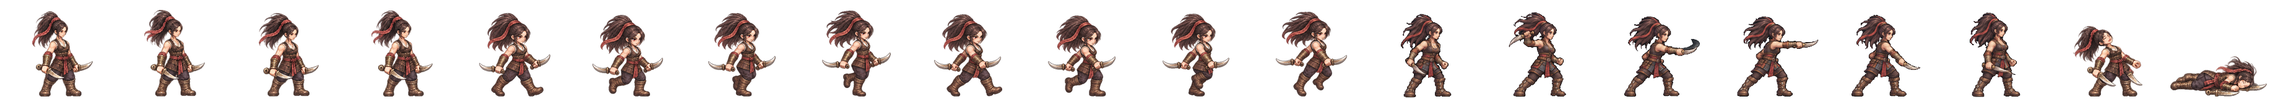
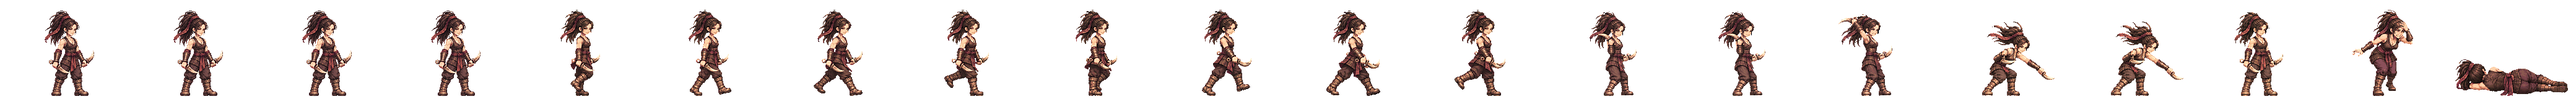
살해 달래 전투 띠를 새 방식으로: 서기·걷기·굽은 단검 둘 내려베기 여덟 칸·개성 동작·쓰러짐·맞음 (Codex 그림 · 독립 검수 · 걷기 다리 교대는 3/4열 부호 반대로 완전히는 안 읽힘 · 내려베기 a 칸4 얼굴은 부분 편집 판에서 얼굴만 합침)
Claude-Session: https://claude.ai/code/session_01TRiuN7s6aDfSnaHxrkctmU

Changed region(s): [[0.0, 0.0938, 1.0, 0.9688]]

diff --git a/src/realm/data/spritePx.ts b/src/realm/data/spritePx.ts
@@ -1,3 +1,3 @@
 /** public/realm/anim-px/manifest.json 의 사본 — tools/sprite-normalize.mjs 가 만든다 (손으로 고치지 말 것). 칸 [가로, 세로] · feet = 발 줄(칸 위에서 y) · bodyPx = 서 있는 몸 키 */
 import { expandManifest } from './sprite-manifest.ts'
-export const SPRITE_PX: Readonly<Record<string, { readonly cell: readonly [number, number]; readonly feet: number; readonly bodyPx: number; readonly kind: 'general' | 'soldier' | 'folk' | 'crowd'; readonly cells: number }>> = expandManifest<{ readonly cell: readonly [number, number]; readonly feet: number; readonly bodyPx: number; readonly kind: 'general' | 'soldier' | 'folk' | 'crowd'; readonly cells: number }>([{"cell":[166,128],"feet":126,"bodyPx":124,"kind":"soldier","cells":20},{"cell":[116,128],"feet":126,"bodyPx":117,"kind":"soldier","cells":20},{"cell":[127,128],"feet":126,"bodyPx":116,"kind":"soldier","cells":20},{"cell":[269,128],"feet":126,"bodyPx":126,"kind":"soldier","cells":20},{"cell":[503,128],"feet":126,"bodyPx":127,"kind":"soldier","cells":20},{"cell":[614,128],"feet":126,"bodyPx":126,"kind":"soldier","cells":20},{"cell":[200,160],"feet":156,"bodyPx":138,"kind":"general","cells":20},{"cell":[208,160],"feet":155,"bodyPx":138,"kind":"general","cells":20},{"cell":[208,160],"feet":154,"bodyPx":138,"kind":"general","cells":20},{"cell":[304,160],"feet":155,"bodyPx":135,"kind":"general","cells":20},{"cell":[184,160],"feet":156,"bodyPx":138,"kind":"general","cells":20},{"cell":[208,160],"feet":154,"bodyPx":136,"kind":"general","cells":20},{"cell":[232,160],"feet":156,"bodyPx":138,"kind":"general","cells":20},{"cell":[208,160],"feet":156,"bodyPx":138,"kind":"general","cells":20},{"cell":[168,160],"feet":156,"bodyPx":124,"kind":"general","cells":20},{"cell":[216,160],"feet":156,"bodyPx":130,"kind":"general","cells":20},{"cell":[200,160],"feet":156,"bodyPx":116,"kind":"general","cells":20},{"cell":[192,160],"feet":156,"bodyPx":138,"kind":"general","cells":20},{"cell":[208,160],"feet":154,"bodyPx":135,"kind":"general","cells":20},{"cell":[280,160],"feet":156,"bodyPx":138,"kind":"general","cells":20},{"cell":[232,160],"feet":156,"bodyPx":134,"kind":"general","cells":20},{"cell":[144,160],"feet":156,"bodyPx":70,"kind":"general","cells":20},{"cell":[208,160],"feet":156,"bodyPx":70,"kind":"general","cells":20},{"cell":[192,160],"feet":156,"bodyPx":70,"kind":"general","cells":20},{"cell":[240,160],"feet":155,"bodyPx":138,"kind":"general","cells":20},{"cell":[192,160],"feet":156,"bodyPx":128,"kind":"general","cells":20},{"cell":[208,160],"feet":154,"bodyPx":137,"kind":"general","cells":20},{"cell":[216,160],"feet":156,"bodyPx":138,"kind":"general","cells":20},{"cell":[208,160],"feet":156,"bodyPx":134,"kind":"general","cells":20},{"cell":[208,160],"feet":154,"bodyPx":130,"kind":"general","cells":20},{"cell":[248,160],"feet":156,"bodyPx":138,"kind":"general","cells":20},{"cell":[248,160],"feet":155,"bodyPx":138,"kind":"general","cells":20},{"cell":[192,160],"feet":155,"bodyPx":138,"kind":"general","cells":20},{"cell":[192,160],"feet":156,"bodyPx":124,"kind":"general","cells":20},{"cell":[208,160],"feet":154,"bodyPx":131,"kind":"general","cells":20},{"cell":[240,160],"feet":156,"bodyPx":138,"kind":"general","cells":20},{"cell":[232,160],"feet":156,"bodyPx":73,"kind":"general","cells":20},{"cell":[224,160],"feet":156,"bodyPx":138,"kind":"general","cells":20},{"cell":[224,160],"feet":156,"bodyPx":128,"kind":"general","cells":20},{"cell":[176,160],"feet":156,"bodyPx":129,"kind":"general","cells":20},{"cell":[208,160],"feet":154,"bodyPx":139,"kind":"general","cells":20},{"cell":[232,160],"feet":155,"bodyPx":138,"kind":"general","cells":20},{"cell":[208,160],"feet":156,"bodyPx":132,"kind":"general","cells":20},{"cell":[184,160],"feet":156,"bodyPx":122,"kind":"general","cells":20},{"cell":[280,160],"feet":155,"bodyPx":133,"kind":"general","cells":20},{"cell":[176,160],"feet":156,"bodyPx":70,"kind":"general","cells":20},{"cell":[186,128],"feet":126,"bodyPx":127,"kind":"soldier","cells":20},{"cell":[298,128],"feet":126,"bodyPx":126,"kind":"soldier","cells":20},{"cell":[82,128],"feet":126,"bodyPx":114,"kind":"folk","cells":8},{"cell":[134,128],"feet":126,"bodyPx":119,"kind":"soldier","cells":20},{"cell":[380,128],"feet":126,"bodyPx":124,"kind":"soldier","cells":20},{"cell":[114,128],"feet":126,"bodyPx":115,"kind":"soldier","cells":20},{"cell":[122,128],"feet":126,"bodyPx":114,"kind":"soldier","cells":20},{"cell":[254,128],"feet":126,"bodyPx":128,"kind":"soldier","cells":20},{"cell":[438,128],"feet":126,"bodyPx":126,"kind":"soldier","cells":20},{"cell":[88,128],"feet":126,"bodyPx":113,"kind":"folk","cells":8},{"cell":[100,128],"feet":126,"bodyPx":115,"kind":"folk","cells":8},{"cell":[108,128],"feet":126,"bodyPx":115,"kind":"folk","cells":8},{"cell":[63,128],"feet":126,"bodyPx":113,"kind":"folk","cells":8},{"cell":[69,96],"feet":96,"bodyPx":96,"kind":"crowd","cells":1},{"cell":[54,96],"feet":96,"bodyPx":96,"kind":"crowd","cells":1},{"cell":[47,96],"feet":96,"bodyPx":96,"kind":"crowd","cells":1},{"cell":[49,96],"feet":96,"bodyPx":96,"kind":"crowd","cells":1},{"cell":[57,96],"feet":96,"bodyPx":96,"kind":"crowd","cells":1},{"cell":[55,96],"feet":96,"bodyPx":96,"kind":"crowd","cells":1},{"cell":[45,96],"feet":96,"bodyPx":96,"kind":"crowd","cells":1},{"cell":[53,96],"feet":96,"bodyPx":96,"kind":"crowd","cells":1},{"cell":[64,96],"feet":96,"bodyPx":96,"kind":"crowd","cells":1},{"cell":[264,160],"feet":156,"bodyPx":138,"kind":"general","cells":20},{"cell":[184,160],"feet":156,"bodyPx":124,"kind":"general","cells":20},{"cell":[256,160],"feet":156,"bodyPx":138,"kind":"general","cells":20},{"cell":[208,160],"feet":154,"bodyPx":134,"kind":"general","cells":20},{"cell":[224,160],"feet":156,"bodyPx":133,"kind":"general","cells":20},{"cell":[184,160],"feet":156,"bodyPx":137,"kind":"general","cells":20},{"cell":[176,160],"feet":156,"bodyPx":130,"kind":"general","cells":20},{"cell":[216,160],"feet":156,"bodyPx":134,"kind":"general","cells":20},{"cell":[216,160],"feet":156,"bodyPx":132,"kind":"general","cells":20},{"cell":[288,160],"feet":156,"bodyPx":138,"kind":"general","cells":20},{"cell":[192,160],"feet":156,"bodyPx":118,"kind":"general","cells":20},{"cell":[208,160],"feet":154,"bodyPx":132,"kind":"general","cells":20},{"cell":[208,160],"feet":154,"bodyPx":128,"kind":"general","cells":20},{"cell":[240,160],"feet":156,"bodyPx":128,"kind":"general","cells":20},{"cell":[184,160],"feet":156,"bodyPx":132,"kind":"general","cells":20},{"cell":[208,160],"feet":156,"bodyPx":123,"kind":"general","cells":20},{"cell":[192,160],"feet":156,"bodyPx":135,"kind":"general","cells":20},{"cell":[176,160],"feet":156,"bodyPx":116,"kind":"general","cells":20},{"cell":[272,160],"feet":156,"bodyPx":138,"kind":"general","cells":20},{"cell":[176,160],"feet":156,"bodyPx":138,"kind":"general","cells":20},{"cell":[176,160],"feet":156,"bodyPx":122,"kind":"general","cells":20},{"cell":[232,160],"feet":156,"bodyPx":127,"kind":"general","cells":20},{"cell":[184,160],"feet":156,"bodyPx":134,"kind":"general","cells":20},{"cell":[168,160],"feet":156,"bodyPx":138,"kind":"general","cells":20},{"cell":[176,160],"feet":156,"bodyPx":137,"kind":"general","cells":20},{"cell":[184,160],"feet":156,"bodyPx":133,"kind":"general","cells":20}],[["axe",0],["bandit-chief",1],["bandit-club",2],["boat",3],["bow",4],["crossbow",5],["gen-adogan",6],["gen-alpyeong",7],["gen-ara",8],["gen-areum",8],["gen-aryeong",9],["gen-bakdal",8],["gen-baram",8],["gen-bdanbi",10],["gen-beom",11],["gen-beombal",8],["gen-beomi",8],["gen-bira",12],["gen-biryu",13],["gen-budeul",8],["gen-byeol",8],["gen-daemusin",14],["gen-daeso",15],["gen-dallae2",10],["gen-dalli",8],["gen-damul",16],["gen-danbi",8],["gen-dangung",17],["gen-darae",18],["gen-dokmudeom",8],["gen-duman",19],["gen-eomni",8],["gen-eureum",20],["gen-g-bow",21],["gen-g-spear",22],["gen-g-sword",23],["gen-gaennae",8],["gen-gamsil",24],["gen-gaon",18],["gen-geota",13],["gen-geumbawi",10],["gen-geumha",25],["gen-goeun",8],["gen-gom",8],["gen-gomok",13],["gen-gureum",8],["gen-guryema",17],["gen-gwaeyu",12],["gen-haebi",8],["gen-haedal",6],["gen-haesol",8],["gen-halla",26],["gen-heo",8],["gen-hneoul",10],["gen-hogong",27],["gen-hojin",13],["gen-horselord",28],["gen-hwalmi",29],["gen-hyeokgeose",17],["gen-hyeopbo",6],["gen-irang",8],["gen-jibaekho",30],["gen-jinha",31],["gen-jita",32],["gen-jumong",33],["gen-keundol",7],["gen-maehwa",34],["gen-maenun",17],["gen-malgalgi",8],["gen-mari",35],["gen-maro",30],["gen-maryeo",13],["gen-mdallae",8],["gen-mir",6],["gen-mount",36],["gen-mulbeom",26],["gen-mulsae",26],["gen-musoe",27],["gen-noeul",8],["gen-nuri",8],["gen-ocheongan",37],["gen-odi",8],["gen-odogan",6],["gen-ogan",17],["gen-oi",38],["gen-olddaeso",20],["gen-onjo",39],["gen-pidogan",13],["gen-sagong",40],["gen-sdallae",6],["gen-sincheongan",8],["gen-singwigan",27],["gen-sinneoul",8],["gen-sobeol",41],["gen-soebi",8],["gen-soebo",42],["gen-soenun",40],["gen-sogeumbi",26],["gen-songbi",8],["gen-songyang",43],["gen-sori",8],["gen-soseono",44],["gen-suro",17],["gen-tahae",6],["gen-tneoul",8],["gen-w-bow",21],["gen-w-spear",45],["gen-waechief",13],["gen-wan",27],["gen-yeodogan",13],["gen-yucheongan",8],["gen-yusugan",30],["horse",46],["marine",47],["migrant",48],["militia",49],["pike",50],["pirate-captain",51],["pirate-sword",52],["shield",53],["spear",54],["villager-builder",55],["villager-farmer",56],["villager-porter",57],["villager-woman",58],["crowd-b1",59],["crowd-b2",60],["crowd-b3",61],["crowd-b4",62],["crowd-b5",63],["crowd-b6",64],["crowd-f1",59],["crowd-f2",64],["crowd-f3",65],["crowd-f4",66],["crowd-f5",59],["crowd-f6",67],["gen-dalbit",13],["gen-base-g-07-drunk-warrior",17],["gen-base-g-40-anya-adan",13],["gen-base-w-13-young-archer",8],["gen-base-g-03-sea-trader",35],["gen-base-w-10-pirate-captain",40],["gen-base-w-64-miri-dallae",40],["gen-base-g-41-goja-bau",35],["gen-base-g-42-dokro-garam",68],["gen-base-g-09-farmer-conscript",27],["gen-base-w-02-goguryeo-lady",8],["gen-base-w-17-mahan-pearl-diver",8],["gen-base-g-17-saro-isageum",42],["gen-base-g-18-daegaya-king",69],["gen-base-g-35-dabeol-dalgu",13],["gen-base-g-19-sabeol-veteran",27],["gen-base-w-23-usisan-whale-queen",8],["gen-base-g-36-gammun-gamdol",37],["gen-base-g-20-samul-sea-lord",70],["gen-base-g-37-eumjeup-jeup",10],["gen-base-g-38-chopal-palmae",17],["gen-base-w-75-daegaya-soemoe",8],["gen-base-g-45-dabeol-deulgae",10],["gen-base-g-04-jinhan-giant",13],["gen-base-g-08-veteran",13],["gen-base-w-18-jinhan-salt-widow",8],["gen-base-w-12-court-dancer",71],["gen-base-w-83-gyeonji-beodeul",72],["gen-base-w-05-baekje-queen",18],["gen-base-w-21-baekje-court-dancer",10],["gen-base-g-01-master-smith",73],["gen-base-g-93-jomun-solgae",74],["gen-base-g-57-bihwa-neup",35],["gen-base-w-72-eumjeup-beol",8],["gen-base-w-102-garak-dana",40],["gen-base-g-68-baekje-onnuri",13],["gen-base-w-27-mokji-jinha",6],["gen-base-g-22-ungcheon-gomnae",6],["gen-base-g-23-sangdang-soedal",13],["gen-base-g-24-wansan-onsan",6],["gen-base-g-25-balla-keunmoe",27],["gen-base-g-61-heomcheuk-bawi",27],["gen-base-g-88-wander-soeul",37],["gen-base-w-14-feast-spy",8],["gen-base-g-12-silla-youth",75],["gen-base-w-08-mahan-warrior",8],["gen-base-g-62-beonye-hanul",35],["gen-base-g-63-heomcheuk-beogeum",13],["gen-base-g-84-wander-seoneul",13],["gen-base-w-50-siljik-mulga",27],["gen-base-g-46-uga-nureongso",27],["gen-base-w-80-usan-gangchi",40],["gen-base-g-47-guga-sanyanggae",27],["gen-base-w-76-gampyeong-baetsagong",8],["gen-base-g-05-mahan-chieftain",76],["gen-base-g-58-usan-uhae",13],["gen-base-g-27-maek-maekdol",13],["gen-base-w-53-hwanna-gabi",40],["gen-base-w-29-golpo-janmul",30],["gen-base-g-53-baekje-haeru",6],["gen-base-w-71-yeonna-neoul",8],["gen-base-w-79-yangmaek-solmae",8],["gen-base-w-34-chopal-deulme",8],["gen-base-g-44-maga-malgup",77],["gen-base-w-31-dabeol-dalbit",40],["gen-base-g-51-biryuna-mulgyeol",37],["gen-base-g-48-gwanna-musoe",13],["gen-base-g-32-uga-sodu",12],["gen-base-g-49-goguryeo-sona",78],["gen-base-g-30-gwanna-soemoe",37],["gen-base-g-52-tamna-oreum",10],["gen-base-g-29-yeonna-myeongsol",33],["gen-base-w-56-dongokjeo-sogeum",71],["gen-base-g-54-mokji-mahan",12],["gen-base-g-33-jeoga-metdol",17],["gen-base-w-36-baekje-maena",8],["gen-base-w-38-sangdang-bulmae",40],["gen-base-w-39-gosaburi-galmae",8],["gen-base-w-40-mujin-munui",79],["gen-base-w-41-hwanna-beodeul",80],["gen-base-w-43-uga-nuri",70],["gen-base-w-45-tamna-oreumbi",10],["gen-base-g-60-golbeol-golgae",10],["gen-base-g-61-apdok-ap",27],["gen-base-g-62-gammun-gamnamu",6],["gen-base-g-63-chopal-yeoul",30],["gen-base-g-64-michuhol-sogeumkkun",35],["gen-base-g-65-sangdang-soemangchi",37],["gen-base-g-66-geonma-malbalgup",81],["gen-base-g-67-gosaburi-buri",82],["gen-base-g-68-mujin-bitgoeul",10],["gen-base-g-69-goryong-yong",37],["gen-base-g-70-siljik-pado",35],["gen-base-w-81-byeokjin-byeolbit",8],["gen-base-w-46-geonma-maru",8],["gen-base-w-48-mujin-mudeung",8],["gen-base-g-26-gampyeong-gaetbeol",12],["gen-base-g-60-eupcha-hangyeol",83],["gen-base-g-15-shaman-man",27],["gen-base-g-85-wander-ure",30],["gen-base-g-43-hwanna-amnok",13],["gen-base-g-50-bullae-gwaha",84],["gen-base-g-55-saro-bakdal",13],["gen-base-g-56-haseulla-gwahama",6],["gen-base-w-06-buyeo-huntress",26],["gen-base-w-22-dongye-tiger-huntress",8],["gen-base-w-25-bihwa-priestess",8],["gen-base-w-24-apdok-queen",8],["gen-base-w-61-iseo-sinae",8],["gen-base-w-26-iseo-tomboy-general",8],["gen-base-g-59-yangmaek-maekson",85],["gen-aw1-haebi",37],["gen-aw1-soseono",86],["gen-aw1-gamsil",10],["gen-aw1-mir",87],["gen-aw1-dangung",6],["gen-aw1-ara",37],["gen-aw1-jumong",88],["gen-aw1-onjo",89],["gen-aw1-base-w-83-gyeonji-beodeul",17],["gen-aw1-heo",68],["gen-aw1-base-g-38-chopal-palmae",6],["gen-aw1-base-w-25-bihwa-priestess",90],["gen-aw1-sori",91],["gen-aw1-gomok",6],["gen-aw1-irang",17],["gen-aw1-budeul",91],["gen-aw1-gom",35],["gen-aw1-sdallae",6],["gen-aw1-base-w-13-young-archer",6],["gen-aw1-base-w-36-baekje-maena",92],["gen-aw1-base-g-09-farmer-conscript",68],["gen-aw1-base-w-02-goguryeo-lady",93],["gen-aw1-haedal",10],["gen-aw1-hogong",6],["gen-aw1-maehwa",87],["gen-aw1-base-w-06-buyeo-huntress",12],["gen-aw1-base-w-08-mahan-warrior",37],["gen-aw1-base-w-29-golpo-janmul",37],["gen-aw1-base-w-31-dabeol-dalbit",17],["gen-aw1-base-w-38-sangdang-bulmae",91],["gen-aw1-bira",27],["gen-aw1-base-w-53-hwanna-gabi",91],["gen-aw1-base-w-56-dongokjeo-sogeum",87],["gen-aw1-base-w-72-eumjeup-beol",17],["gen-aw1-bdanbi",91],["gen-aw1-beom",10],["gen-aw1-beombal",10],["gen-aw1-byeol",17],["gen-aw1-dalli",87],["gen-aw1-malgalgi",30],["gen-aw1-sincheongan",27]])
+export const SPRITE_PX: Readonly<Record<string, { readonly cell: readonly [number, number]; readonly feet: number; readonly bodyPx: number; readonly kind: 'general' | 'soldier' | 'folk' | 'crowd'; readonly cells: number }>> = expandManifest<{ readonly cell: readonly [number, number]; readonly feet: number; readonly bodyPx: number; readonly kind: 'general' | 'soldier' | 'folk' | 'crowd'; readonly cells: number }>([{"cell":[166,128],"feet":126,"bodyPx":124,"kind":"soldier","cells":20},{"cell":[116,128],"feet":126,"bodyPx":117,"kind":"soldier","cells":20},{"cell":[127,128],"feet":126,"bodyPx":116,"kind":"soldier","cells":20},{"cell":[269,128],"feet":126,"bodyPx":126,"kind":"soldier","cells":20},{"cell":[503,128],"feet":126,"bodyPx":127,"kind":"soldier","cells":20},{"cell":[614,128],"feet":126,"bodyPx":126,"kind":"soldier","cells":20},{"cell":[200,160],"feet":156,"bodyPx":138,"kind":"general","cells":20},{"cell":[208,160],"feet":155,"bodyPx":138,"kind":"general","cells":20},{"cell":[208,160],"feet":154,"bodyPx":138,"kind":"general","cells":20},{"cell":[304,160],"feet":155,"bodyPx":135,"kind":"general","cells":20},{"cell":[184,160],"feet":156,"bodyPx":138,"kind":"general","cells":20},{"cell":[208,160],"feet":154,"bodyPx":136,"kind":"general","cells":20},{"cell":[232,160],"feet":156,"bodyPx":138,"kind":"general","cells":20},{"cell":[208,160],"feet":156,"bodyPx":138,"kind":"general","cells":20},{"cell":[168,160],"feet":156,"bodyPx":124,"kind":"general","cells":20},{"cell":[216,160],"feet":156,"bodyPx":130,"kind":"general","cells":20},{"cell":[200,160],"feet":156,"bodyPx":116,"kind":"general","cells":20},{"cell":[192,160],"feet":156,"bodyPx":138,"kind":"general","cells":20},{"cell":[208,160],"feet":154,"bodyPx":135,"kind":"general","cells":20},{"cell":[280,160],"feet":156,"bodyPx":138,"kind":"general","cells":20},{"cell":[232,160],"feet":156,"bodyPx":134,"kind":"general","cells":20},{"cell":[144,160],"feet":156,"bodyPx":70,"kind":"general","cells":20},{"cell":[208,160],"feet":156,"bodyPx":70,"kind":"general","cells":20},{"cell":[192,160],"feet":156,"bodyPx":70,"kind":"general","cells":20},{"cell":[240,160],"feet":155,"bodyPx":138,"kind":"general","cells":20},{"cell":[192,160],"feet":156,"bodyPx":128,"kind":"general","cells":20},{"cell":[208,160],"feet":154,"bodyPx":137,"kind":"general","cells":20},{"cell":[216,160],"feet":156,"bodyPx":138,"kind":"general","cells":20},{"cell":[208,160],"feet":156,"bodyPx":134,"kind":"general","cells":20},{"cell":[208,160],"feet":154,"bodyPx":130,"kind":"general","cells":20},{"cell":[248,160],"feet":156,"bodyPx":138,"kind":"general","cells":20},{"cell":[248,160],"feet":155,"bodyPx":138,"kind":"general","cells":20},{"cell":[192,160],"feet":155,"bodyPx":138,"kind":"general","cells":20},{"cell":[192,160],"feet":156,"bodyPx":124,"kind":"general","cells":20},{"cell":[208,160],"feet":154,"bodyPx":131,"kind":"general","cells":20},{"cell":[240,160],"feet":156,"bodyPx":138,"kind":"general","cells":20},{"cell":[232,160],"feet":156,"bodyPx":73,"kind":"general","cells":20},{"cell":[224,160],"feet":156,"bodyPx":138,"kind":"general","cells":20},{"cell":[224,160],"feet":156,"bodyPx":128,"kind":"general","cells":20},{"cell":[176,160],"feet":156,"bodyPx":129,"kind":"general","cells":20},{"cell":[208,160],"feet":154,"bodyPx":139,"kind":"general","cells":20},{"cell":[232,160],"feet":155,"bodyPx":138,"kind":"general","cells":20},{"cell":[208,160],"feet":156,"bodyPx":132,"kind":"general","cells":20},{"cell":[184,160],"feet":156,"bodyPx":122,"kind":"general","cells":20},{"cell":[280,160],"feet":155,"bodyPx":133,"kind":"general","cells":20},{"cell":[176,160],"feet":156,"bodyPx":70,"kind":"general","cells":20},{"cell":[186,128],"feet":126,"bodyPx":127,"kind":"soldier","cells":20},{"cell":[298,128],"feet":126,"bodyPx":126,"kind":"soldier","cells":20},{"cell":[82,128],"feet":126,"bodyPx":114,"kind":"folk","cells":8},{"cell":[134,128],"feet":126,"bodyPx":119,"kind":"soldier","cells":20},{"cell":[380,128],"feet":126,"bodyPx":124,"kind":"soldier","cells":20},{"cell":[114,128],"feet":126,"bodyPx":115,"kind":"soldier","cells":20},{"cell":[122,128],"feet":126,"bodyPx":114,"kind":"soldier","cells":20},{"cell":[254,128],"feet":126,"bodyPx":128,"kind":"soldier","cells":20},{"cell":[438,128],"feet":126,"bodyPx":126,"kind":"soldier","cells":20},{"cell":[88,128],"feet":126,"bodyPx":113,"kind":"folk","cells":8},{"cell":[100,128],"feet":126,"bodyPx":115,"kind":"folk","cells":8},{"cell":[108,128],"feet":126,"bodyPx":115,"kind":"folk","cells":8},{"cell":[63,128],"feet":126,"bodyPx":113,"kind":"folk","cells":8},{"cell":[69,96],"feet":96,"bodyPx":96,"kind":"crowd","cells":1},{"cell":[54,96],"feet":96,"bodyPx":96,"kind":"crowd","cells":1},{"cell":[47,96],"feet":96,"bodyPx":96,"kind":"crowd","cells":1},{"cell":[49,96],"feet":96,"bodyPx":96,"kind":"crowd","cells":1},{"cell":[57,96],"feet":96,"bodyPx":96,"kind":"crowd","cells":1},{"cell":[55,96],"feet":96,"bodyPx":96,"kind":"crowd","cells":1},{"cell":[45,96],"feet":96,"bodyPx":96,"kind":"crowd","cells":1},{"cell":[53,96],"feet":96,"bodyPx":96,"kind":"crowd","cells":1},{"cell":[64,96],"feet":96,"bodyPx":96,"kind":"crowd","cells":1},{"cell":[264,160],"feet":156,"bodyPx":138,"kind":"general","cells":20},{"cell":[184,160],"feet":156,"bodyPx":124,"kind":"general","cells":20},{"cell":[256,160],"feet":156,"bodyPx":138,"kind":"general","cells":20},{"cell":[208,160],"feet":154,"bodyPx":134,"kind":"general","cells":20},{"cell":[224,160],"feet":156,"bodyPx":133,"kind":"general","cells":20},{"cell":[184,160],"feet":156,"bodyPx":137,"kind":"general","cells":20},{"cell":[176,160],"feet":156,"bodyPx":130,"kind":"general","cells":20},{"cell":[216,160],"feet":156,"bodyPx":134,"kind":"general","cells":20},{"cell":[216,160],"feet":156,"bodyPx":132,"kind":"general","cells":20},{"cell":[288,160],"feet":156,"bodyPx":138,"kind":"general","cells":20},{"cell":[192,160],"feet":156,"bodyPx":118,"kind":"general","cells":20},{"cell":[208,160],"feet":154,"bodyPx":132,"kind":"general","cells":20},{"cell":[208,160],"feet":154,"bodyPx":128,"kind":"general","cells":20},{"cell":[240,160],"feet":156,"bodyPx":128,"kind":"general","cells":20},{"cell":[184,160],"feet":156,"bodyPx":132,"kind":"general","cells":20},{"cell":[208,160],"feet":156,"bodyPx":123,"kind":"general","cells":20},{"cell":[192,160],"feet":156,"bodyPx":135,"kind":"general","cells":20},{"cell":[176,160],"feet":156,"bodyPx":116,"kind":"general","cells":20},{"cell":[272,160],"feet":156,"bodyPx":138,"kind":"general","cells":20},{"cell":[176,160],"feet":156,"bodyPx":138,"kind":"general","cells":20},{"cell":[176,160],"feet":156,"bodyPx":122,"kind":"general","cells":20},{"cell":[232,160],"feet":156,"bodyPx":127,"kind":"general","cells":20},{"cell":[184,160],"feet":156,"bodyPx":134,"kind":"general","cells":20},{"cell":[168,160],"feet":156,"bodyPx":138,"kind":"general","cells":20},{"cell":[176,160],"feet":156,"bodyPx":137,"kind":"general","cells":20},{"cell":[184,160],"feet":156,"bodyPx":133,"kind":"general","cells":20}],[["axe",0],["bandit-chief",1],["bandit-club",2],["boat",3],["bow",4],["crossbow",5],["gen-adogan",6],["gen-alpyeong",7],["gen-ara",8],["gen-areum",8],["gen-aryeong",9],["gen-bakdal",8],["gen-baram",8],["gen-bdanbi",10],["gen-beom",11],["gen-beombal",8],["gen-beomi",8],["gen-bira",12],["gen-biryu",13],["gen-budeul",8],["gen-byeol",8],["gen-daemusin",14],["gen-daeso",15],["gen-dallae2",8],["gen-dalli",8],["gen-damul",16],["gen-danbi",8],["gen-dangung",17],["gen-darae",18],["gen-dokmudeom",8],["gen-duman",19],["gen-eomni",8],["gen-eureum",20],["gen-g-bow",21],["gen-g-spear",22],["gen-g-sword",23],["gen-gaennae",8],["gen-gamsil",24],["gen-gaon",18],["gen-geota",13],["gen-geumbawi",10],["gen-geumha",25],["gen-goeun",8],["gen-gom",8],["gen-gomok",13],["gen-gureum",8],["gen-guryema",17],["gen-gwaeyu",12],["gen-haebi",8],["gen-haedal",6],["gen-haesol",8],["gen-halla",26],["gen-heo",8],["gen-hneoul",10],["gen-hogong",27],["gen-hojin",13],["gen-horselord",28],["gen-hwalmi",29],["gen-hyeokgeose",17],["gen-hyeopbo",6],["gen-irang",8],["gen-jibaekho",30],["gen-jinha",31],["gen-jita",32],["gen-jumong",33],["gen-keundol",7],["gen-maehwa",34],["gen-maenun",17],["gen-malgalgi",8],["gen-mari",35],["gen-maro",30],["gen-maryeo",13],["gen-mdallae",8],["gen-mir",6],["gen-mount",36],["gen-mulbeom",26],["gen-mulsae",26],["gen-musoe",27],["gen-noeul",8],["gen-nuri",8],["gen-ocheongan",37],["gen-odi",8],["gen-odogan",6],["gen-ogan",17],["gen-oi",38],["gen-olddaeso",20],["gen-onjo",39],["gen-pidogan",13],["gen-sagong",40],["gen-sdallae",6],["gen-sincheongan",8],["gen-singwigan",27],["gen-sinneoul",8],["gen-sobeol",41],["gen-soebi",8],["gen-soebo",42],["gen-soenun",40],["gen-sogeumbi",26],["gen-songbi",8],["gen-songyang",43],["gen-sori",8],["gen-soseono",44],["gen-suro",17],["gen-tahae",6],["gen-tneoul",8],["gen-w-bow",21],["gen-w-spear",45],["gen-waechief",13],["gen-wan",27],["gen-yeodogan",13],["gen-yucheongan",8],["gen-yusugan",30],["horse",46],["marine",47],["migrant",48],["militia",49],["pike",50],["pirate-captain",51],["pirate-sword",52],["shield",53],["spear",54],["villager-builder",55],["villager-farmer",56],["villager-porter",57],["villager-woman",58],["crowd-b1",59],["crowd-b2",60],["crowd-b3",61],["crowd-b4",62],["crowd-b5",63],["crowd-b6",64],["crowd-f1",59],["crowd-f2",64],["crowd-f3",65],["crowd-f4",66],["crowd-f5",59],["crowd-f6",67],["gen-dalbit",13],["gen-base-g-07-drunk-warrior",17],["gen-base-g-40-anya-adan",13],["gen-base-w-13-young-archer",8],["gen-base-g-03-sea-trader",35],["gen-base-w-10-pirate-captain",40],["gen-base-w-64-miri-dallae",40],["gen-base-g-41-goja-bau",35],["gen-base-g-42-dokro-garam",68],["gen-base-g-09-farmer-conscript",27],["gen-base-w-02-goguryeo-lady",8],["gen-base-w-17-mahan-pearl-diver",8],["gen-base-g-17-saro-isageum",42],["gen-base-g-18-daegaya-king",69],["gen-base-g-35-dabeol-dalgu",13],["gen-base-g-19-sabeol-veteran",27],["gen-base-w-23-usisan-whale-queen",8],["gen-base-g-36-gammun-gamdol",37],["gen-base-g-20-samul-sea-lord",70],["gen-base-g-37-eumjeup-jeup",10],["gen-base-g-38-chopal-palmae",17],["gen-base-w-75-daegaya-soemoe",8],["gen-base-g-45-dabeol-deulgae",10],["gen-base-g-04-jinhan-giant",13],["gen-base-g-08-veteran",13],["gen-base-w-18-jinhan-salt-widow",8],["gen-base-w-12-court-dancer",71],["gen-base-w-83-gyeonji-beodeul",72],["gen-base-w-05-baekje-queen",18],["gen-base-w-21-baekje-court-dancer",10],["gen-base-g-01-master-smith",73],["gen-base-g-93-jomun-solgae",74],["gen-base-g-57-bihwa-neup",35],["gen-base-w-72-eumjeup-beol",8],["gen-base-w-102-garak-dana",40],["gen-base-g-68-baekje-onnuri",13],["gen-base-w-27-mokji-jinha",6],["gen-base-g-22-ungcheon-gomnae",6],["gen-base-g-23-sangdang-soedal",13],["gen-base-g-24-wansan-onsan",6],["gen-base-g-25-balla-keunmoe",27],["gen-base-g-61-heomcheuk-bawi",27],["gen-base-g-88-wander-soeul",37],["gen-base-w-14-feast-spy",8],["gen-base-g-12-silla-youth",75],["gen-base-w-08-mahan-warrior",8],["gen-base-g-62-beonye-hanul",35],["gen-base-g-63-heomcheuk-beogeum",13],["gen-base-g-84-wander-seoneul",13],["gen-base-w-50-siljik-mulga",27],["gen-base-g-46-uga-nureongso",27],["gen-base-w-80-usan-gangchi",40],["gen-base-g-47-guga-sanyanggae",27],["gen-base-w-76-gampyeong-baetsagong",8],["gen-base-g-05-mahan-chieftain",76],["gen-base-g-58-usan-uhae",13],["gen-base-g-27-maek-maekdol",13],["gen-base-w-53-hwanna-gabi",40],["gen-base-w-29-golpo-janmul",30],["gen-base-g-53-baekje-haeru",6],["gen-base-w-71-yeonna-neoul",8],["gen-base-w-79-yangmaek-solmae",8],["gen-base-w-34-chopal-deulme",8],["gen-base-g-44-maga-malgup",77],["gen-base-w-31-dabeol-dalbit",40],["gen-base-g-51-biryuna-mulgyeol",37],["gen-base-g-48-gwanna-musoe",13],["gen-base-g-32-uga-sodu",12],["gen-base-g-49-goguryeo-sona",78],["gen-base-g-30-gwanna-soemoe",37],["gen-base-g-52-tamna-oreum",10],["gen-base-g-29-yeonna-myeongsol",33],["gen-base-w-56-dongokjeo-sogeum",71],["gen-base-g-54-mokji-mahan",12],["gen-base-g-33-jeoga-metdol",17],["gen-base-w-36-baekje-maena",8],["gen-base-w-38-sangdang-bulmae",40],["gen-base-w-39-gosaburi-galmae",8],["gen-base-w-40-mujin-munui",79],["gen-base-w-41-hwanna-beodeul",80],["gen-base-w-43-uga-nuri",70],["gen-base-w-45-tamna-oreumbi",10],["gen-base-g-60-golbeol-golgae",10],["gen-base-g-61-apdok-ap",27],["gen-base-g-62-gammun-gamnamu",6],["gen-base-g-63-chopal-yeoul",30],["gen-base-g-64-michuhol-sogeumkkun",35],["gen-base-g-65-sangdang-soemangchi",37],["gen-base-g-66-geonma-malbalgup",81],["gen-base-g-67-gosaburi-buri",82],["gen-base-g-68-mujin-bitgoeul",10],["gen-base-g-69-goryong-yong",37],["gen-base-g-70-siljik-pado",35],["gen-base-w-81-byeokjin-byeolbit",8],["gen-base-w-46-geonma-maru",8],["gen-base-w-48-mujin-mudeung",8],["gen-base-g-26-gampyeong-gaetbeol",12],["gen-base-g-60-eupcha-hangyeol",83],["gen-base-g-15-shaman-man",27],["gen-base-g-85-wander-ure",30],["gen-base-g-43-hwanna-amnok",13],["gen-base-g-50-bullae-gwaha",84],["gen-base-g-55-saro-bakdal",13],["gen-base-g-56-haseulla-gwahama",6],["gen-base-w-06-buyeo-huntress",26],["gen-base-w-22-dongye-tiger-huntress",8],["gen-base-w-25-bihwa-priestess",8],["gen-base-w-24-apdok-queen",8],["gen-base-w-61-iseo-sinae",8],["gen-base-w-26-iseo-tomboy-general",8],["gen-base-g-59-yangmaek-maekson",85],["gen-aw1-haebi",37],["gen-aw1-soseono",86],["gen-aw1-gamsil",10],["gen-aw1-mir",87],["gen-aw1-dangung",6],["gen-aw1-ara",37],["gen-aw1-jumong",88],["gen-aw1-onjo",89],["gen-aw1-base-w-83-gyeonji-beodeul",17],["gen-aw1-heo",68],["gen-aw1-base-g-38-chopal-palmae",6],["gen-aw1-base-w-25-bihwa-priestess",90],["gen-aw1-sori",91],["gen-aw1-gomok",6],["gen-aw1-irang",17],["gen-aw1-budeul",91],["gen-aw1-gom",35],["gen-aw1-sdallae",6],["gen-aw1-base-w-13-young-archer",6],["gen-aw1-base-w-36-baekje-maena",92],["gen-aw1-base-g-09-farmer-conscript",68],["gen-aw1-base-w-02-goguryeo-lady",93],["gen-aw1-haedal",10],["gen-aw1-hogong",6],["gen-aw1-maehwa",87],["gen-aw1-base-w-06-buyeo-huntress",12],["gen-aw1-base-w-08-mahan-warrior",37],["gen-aw1-base-w-29-golpo-janmul",37],["gen-aw1-base-w-31-dabeol-dalbit",17],["gen-aw1-base-w-38-sangdang-bulmae",91],["gen-aw1-bira",27],["gen-aw1-base-w-53-hwanna-gabi",91],["gen-aw1-base-w-56-dongokjeo-sogeum",87],["gen-aw1-base-w-72-eumjeup-beol",17],["gen-aw1-bdanbi",91],["gen-aw1-beom",10],["gen-aw1-beombal",10],["gen-aw1-byeol",17],["gen-aw1-dalli",87],["gen-aw1-malgalgi",30],["gen-aw1-sincheongan",27]])

diff --git a/src/duel/view.ts b/src/duel/view.ts
@@ -100,7 +100,7 @@ const crowdFront = [1, 2, 3, 4, 5, 6].map((i) => img(`realm/duel/crowd/b${i}.png
 const crowdReady = (set: HTMLImageElement[]): boolean => set.every((im) => im.complete && im.naturalWidth > 0)
 const pxMode = cfg.px !== false && params.get('px') !== '0'
 /** 겨루기 전용 옛 띠(duel/sprites) 대신 열전과 같은 도트 띠(anim-px)를 쓰는 장수 — 두 판에서 같은 모습 · 서기 계획·쓰러지는 칸도 같다 (11-23 범 · 매화 · 달빛 · 11-24 해비 · 아룸) */
-const PX_DUEL: ReadonlySet<string> = new Set(['beom', 'maehwa', 'base-w-31-dabeol-dalbit', 'haebi', 'areum', 'base-w-13-young-archer', 'base-w-10-pirate-captain', 'base-w-17-mahan-pearl-diver', 'base-w-06-buyeo-huntress', 'base-w-64-miri-dallae', 'ara', 'base-w-22-dongye-tiger-huntress', 'noeul', 'sagong', 'sinneoul', 'heo', 'base-w-08-mahan-warrior', 'base-w-23-usisan-whale-queen', 'base-w-26-iseo-tomboy-general', 'base-w-72-eumjeup-beol', 'tneoul', 'odi', 'base-w-76-gampyeong-baetsagong', 'base-w-34-chopal-deulme', 'base-w-102-garak-dana', 'base-w-36-baekje-maena', 'base-w-56-dongokjeo-sogeum', 'budeul', 'base-w-53-hwanna-gabi', 'base-w-18-jinhan-salt-widow', 'beombal', 'irang', 'sogeumbi', 'baram', 'byeol', 'base-w-71-yeonna-neoul', 'base-w-39-gosaburi-galmae', 'base-w-41-hwanna-beodeul', 'base-w-79-yangmaek-solmae', 'base-w-46-geonma-maru', 'base-w-48-mujin-mudeung', 'base-w-80-usan-gangchi', 'base-w-81-byeokjin-byeolbit', 'beomi', 'danbi', 'dalli', 'gureum', 'haesol', 'soenun', 'eomni', 'mulbeom', 'mulsae', 'bakdal', 'darae', 'sori', 'base-w-12-court-dancer', 'hwalmi', 'gaennae', 'dokmudeom', 'base-w-14-feast-spy', 'base-w-25-bihwa-priestess', 'sincheongan', 'base-w-40-mujin-munui', 'halla', 'yucheongan', 'base-w-02-goguryeo-lady', 'gaon', 'base-w-24-apdok-queen', 'base-w-61-iseo-sinae', 'goeun', 'base-w-05-baekje-queen', 'mdallae', 'nuri', 'base-w-75-daegaya-soemoe', 'soebi', 'base-w-38-sangdang-bulmae', 'gom', 'songbi', 'malgalgi'])
+const PX_DUEL: ReadonlySet<string> = new Set(['beom', 'maehwa', 'base-w-31-dabeol-dalbit', 'haebi', 'areum', 'base-w-13-young-archer', 'base-w-10-pirate-captain', 'base-w-17-mahan-pearl-diver', 'base-w-06-buyeo-huntress', 'base-w-64-miri-dallae', 'ara', 'base-w-22-dongye-tiger-huntress', 'noeul', 'sagong', 'sinneoul', 'heo', 'base-w-08-mahan-warrior', 'base-w-23-usisan-whale-queen', 'base-w-26-iseo-tomboy-general', 'base-w-72-eumjeup-beol', 'tneoul', 'odi', 'base-w-76-gampyeong-baetsagong', 'base-w-34-chopal-deulme', 'base-w-102-garak-dana', 'base-w-36-baekje-maena', 'base-w-56-dongokjeo-sogeum', 'budeul', 'base-w-53-hwanna-gabi', 'base-w-18-jinhan-salt-widow', 'beombal', 'irang', 'sogeumbi', 'baram', 'byeol', 'base-w-71-yeonna-neoul', 'base-w-39-gosaburi-galmae', 'base-w-41-hwanna-beodeul', 'base-w-79-yangmaek-solmae', 'base-w-46-geonma-maru', 'base-w-48-mujin-mudeung', 'base-w-80-usan-gangchi', 'base-w-81-byeokjin-byeolbit', 'beomi', 'danbi', 'dalli', 'gureum', 'haesol', 'soenun', 'eomni', 'mulbeom', 'mulsae', 'bakdal', 'darae', 'sori', 'base-w-12-court-dancer', 'hwalmi', 'gaennae', 'dokmudeom', 'base-w-14-feast-spy', 'base-w-25-bihwa-priestess', 'sincheongan', 'base-w-40-mujin-munui', 'halla', 'yucheongan', 'base-w-02-goguryeo-lady', 'gaon', 'base-w-24-apdok-queen', 'base-w-61-iseo-sinae', 'goeun', 'base-w-05-baekje-queen', 'mdallae', 'nuri', 'base-w-75-daegaya-soemoe', 'soebi', 'base-w-38-sangdang-bulmae', 'gom', 'songbi', 'malgalgi', 'dallae2'])
 /** 띠 그림 — 기본은 anim-px(도트 규격) 먼저, 없으면 옛 띠로 (img 의 onerror 가 갈아 끼운다) */
 const strip = (s: string): HTMLImageElement => pxMode
   ? DUEL_ATLASES[s] !== undefined && !PX_DUEL.has(s) ? img(`realm/duel/sprites/gen-${s}.png`, `realm/anim-px/gen-${s}.png`)

diff --git a/src/tune/params.ts b/src/tune/params.ts
@@ -1539,6 +1539,7 @@ export const HAEBI_IDLE = {
     gom: { cells: 38, base: [0, 1], hold: 2.4, fall: [18, 20, 21, 19], quirk: [22, 23, 24, 25], quirkTimes: [.3, .32, .4, .28], attack: { cells: [26, 27, 28, 29, 30, 31, 32, 33], times: [.09, .08, .11, .05, .15, .07, .08, .12], hit: 4 }, hurt: [34, 35], rise: [36, 37], xGeom: { h: 224, root: 92, foot: 216 } },
     songbi: { cells: 30, base: [0, 1], hold: 2.4, fall: [18, 20, 21, 19], quirk: [22, 23, 24, 25], quirkTimes: [.28, .3, .42, .25], hurt: [26, 27], rise: [28, 29] },
     malgalgi: { cells: 38, base: [0, 1], hold: 2.4, fall: [18, 20, 21, 19], quirk: [22, 23, 24, 25], quirkTimes: [.3, .32, .4, .28], attack: { cells: [26, 27, 28, 29, 30, 31, 32, 33], times: [.09, .08, .22, .05, .15, .07, .08, .12], hit: 4 }, hurt: [34, 35], rise: [36, 37], xGeom: { h: 224, root: 92, foot: 216 } },
+    dallae2: { cells: 38, base: [0, 1], hold: 2.4, fall: [18, 20, 21, 19], quirk: [22, 23, 24, 25], quirkTimes: [.3, .32, .4, .28], attack: { cells: [26, 27, 28, 29, 30, 31, 32, 33], times: [.09, .08, .11, .05, .15, .07, .08, .12], hit: 4 }, hurt: [34, 35], rise: [36, 37], xGeom: { h: 224, root: 92, foot: 216 } },
   },
 } as const
 export const HAEBI_ANIM = {

diff --git a/tools/sprite-kit/anim-harness.py b/tools/sprite-kit/anim-harness.py
@@ -119,6 +119,7 @@ HEROES = {
     'bulmae': dict(hit=True, strip='gen-base-w-38-sangdang-bulmae', atk='chop', atk8=True, act=True),   # 상당 불매(쇠망치 · 가슴 M) · 11-25 도끼·망치 묶음
     'gom': dict(hit=True, strip='gen-gom', atk='chop', atk8=True, act=True, legacy=(('a', 1), ('b', 3), ('b', 3), ('b', 4))),   # 웅천 곰(가시 몽둥이 · 가슴 M) · 11-25 도끼·망치 묶음
     'malgalgi': dict(hit=True, strip='gen-malgalgi', atk='whip', actw=288, atk8=True, act=True, backfoot=True, legacy=(('a', 1), ('a', 3), ('b', 3), ('b', 4))),   # 사벌 말갈기(채찍 · 가슴 M · 배우는 판 장수) · 11-25 채찍 인형 시제품(뒷발 박힘 · 앞발 내딛음)
+    'dallae2': dict(hit=True, strip='gen-dallae2', atk='slash', atk8=True, act=True, legacy=(('a', 1), ('a', 3), ('b', 2), ('b', 4))),   # 살해 달래(굽은 단검 둘 · 가슴 M) · 11-25 열넷째 묶음
     'areum': dict(hit=True, strip='gen-areum', atk='slam', atk8=True, act=True, lock='none'),   # 받은 그림 그대로(얼굴을 떠다 붙이지 않는다 — 11-24: 뭉친 얼굴이 여덟 칸에 퍼졌다) · 옛 lock='face': 메가 머리 뒤로 지나간다 — 머리 상자는 메를 자르고(「포스터」), 윗몸을 통째로 묶으면 떠다닌다(11-24 형) → 얼굴 안쪽만 묶는다
 }
 
